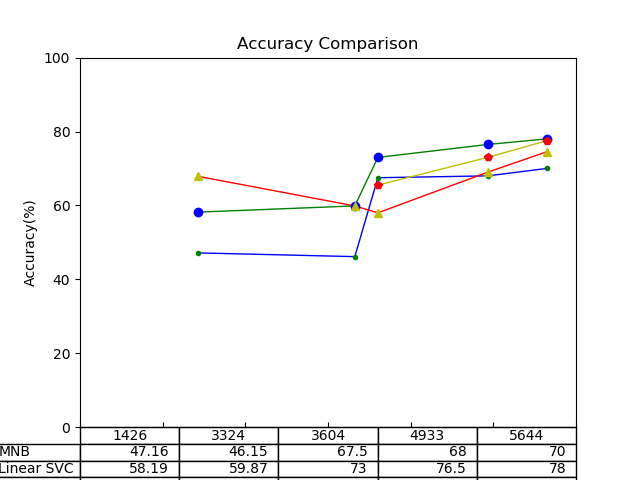
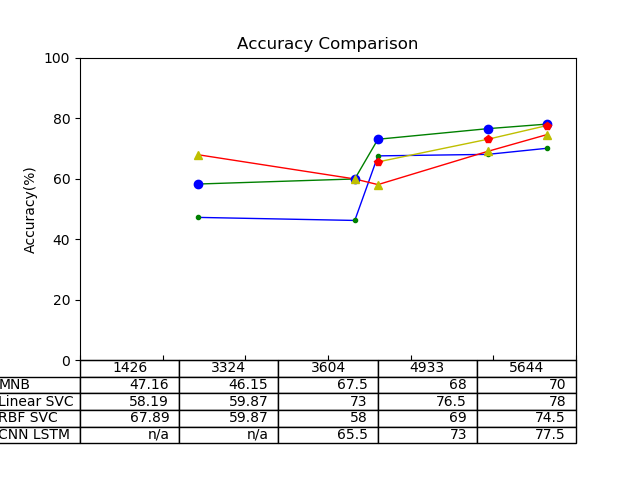
fine
need to add some icon

diff --git a/code.py b/code.py
@@ -1,7 +1,7 @@
 import matplotlib.pyplot as plt
 import matplotlib.axes as ax
 
-
+plt.gcf().subplots_adjust(bottom=0.25)
 plt.title("Accuracy Comparison")
 
 plt.tick_params(axis='x',labelbottom=False,direction="in")
@@ -28,11 +28,12 @@ cell_text=[]
 cell_text.append([47.16,46.15,67.5,68,70])
 cell_text.append([58.19,59.87,73,76.5,78])
 cell_text.append([67.89,59.87,58,69,74.5])
-cell_text.append([0,0,65.5,73,77.5])
+cell_text.append(['n/a','n/a',65.5,73,77.5])
 
 the_table = plt.table(cellText=cell_text,
                       rowLabels=rows,
-                      colLabels=columns)
+                      colLabels=columns,
+                      loc='bottom')
 
 
 
